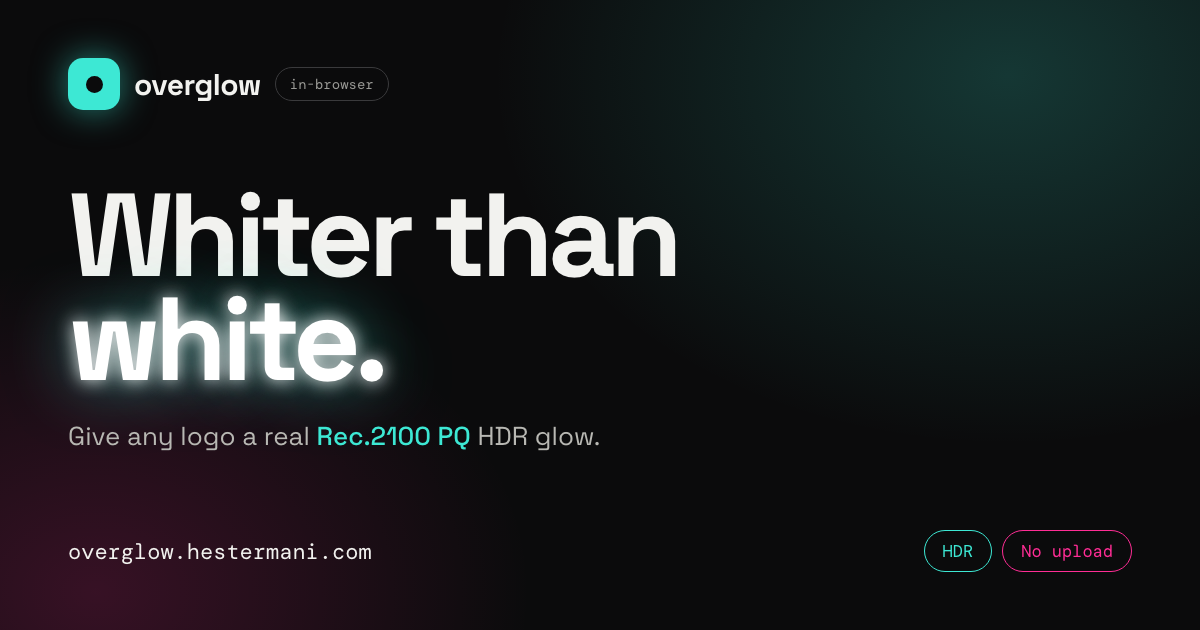
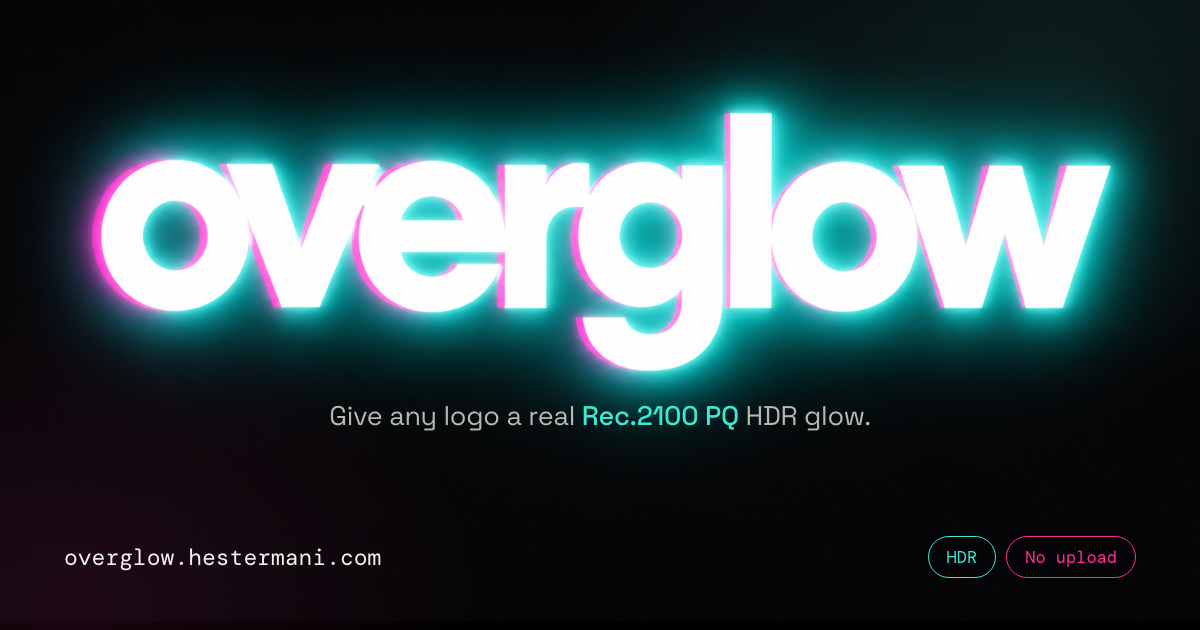
Show the count in the footer, and rebuild the social card
The footer pointed at raw JSON. It now renders the number, read from a 4-key
edge-cached endpoint rather than the 180-key one, which would have exhausted
the free KV read tier at roughly 555 visits a day. It counts real uploads but
never prints the word "uploaded", which the page denies in several places.

/api/count now only accepts requests a browser made from this page, so a bare
curl loop cannot pump the number.

The social card is rebuilt around the generated wordmark.

diff --git a/tools/og-card.html b/tools/og-card.html
@@ -3,42 +3,37 @@
 <link href="https://fonts.googleapis.com/css2?family=Space+Grotesk:wght@400;500;700&family=DM+Mono:wght@400;500&display=swap" rel="stylesheet">
 <style>
 *{margin:0;padding:0;box-sizing:border-box}
-body{width:1200px;height:630px;overflow:hidden;background:#0B0B0C;
-  font-family:'Space Grotesk',Helvetica,sans-serif;-webkit-font-smoothing:antialiased;position:relative}
+body{width:1200px;height:630px;overflow:hidden;background:#000;position:relative;
+  font-family:'Space Grotesk',Helvetica,sans-serif;-webkit-font-smoothing:antialiased}
+/* faint brand wash behind everything */
 .bg{position:absolute;inset:0;
-  background:radial-gradient(780px 560px at 84% 12%, rgba(61,232,212,.20), transparent 66%),
-             radial-gradient(680px 520px at 8% 94%, rgba(255,45,149,.18), transparent 64%)}
-.inner{position:relative;height:100%;padding:58px 68px;display:flex;flex-direction:column;justify-content:space-between}
-.brand{display:flex;align-items:center;gap:14px}
-.mark{width:52px;height:52px;border-radius:15px;background:#3DE8D4;display:flex;align-items:center;justify-content:center;
-  box-shadow:0 0 34px rgba(61,232,212,.55)}
-.mark i{width:17px;height:17px;border-radius:50%;background:#0B0B0C;display:block}
-.word{color:#F2F2EF;font-weight:700;font-size:30px;letter-spacing:-.02em}
-.badge{border:1px solid #3A3A3C;color:#9A9A96;font-family:'DM Mono',monospace;font-size:14px;padding:7px 14px;border-radius:999px}
-h1{color:#F2F2EF;font-weight:700;font-size:118px;line-height:.88;letter-spacing:-.05em}
-h1 .glow{color:#fff;text-shadow:0 0 18px rgba(255,255,255,.95),0 0 66px rgba(61,232,212,.7)}
-p.sub{margin-top:26px;color:#B8B8B3;font-size:26px;line-height:1.45;max-width:860px}
+  background:radial-gradient(700px 500px at 88% 8%, rgba(61,232,212,.10), transparent 68%),
+             radial-gradient(620px 480px at 6% 96%, rgba(255,45,149,.10), transparent 66%)}
+/* The wordmark is glow-on-black, so `screen` drops its background and keeps the
+   light. That avoids a visible rectangle edge against the card. */
+/* Wider than the card on purpose: the source PNG's background is not pure
+   black, so `screen` leaves a faint lift with hard edges. Bleeding it past the
+   frame puts those edges off-canvas. */
+.mark{position:absolute;left:50%;top:41%;transform:translate(-50%,-50%);
+  width:1290px;mix-blend-mode:screen;display:block}
+.inner{position:relative;height:100%;padding:52px 64px;display:flex;flex-direction:column;justify-content:space-between}
+p.sub{position:absolute;left:0;right:0;top:63%;text-align:center;
+  color:#B8B8B3;font-size:27px;line-height:1.4;letter-spacing:-.01em}
 p.sub strong{color:#3DE8D4;font-weight:500}
-.foot{display:flex;align-items:center;justify-content:space-between}
-.url{color:#F2F2EF;font-family:'DM Mono',monospace;font-size:22px}
+.foot{margin-top:auto;display:flex;align-items:center;justify-content:space-between}
+.url{color:#F2F2EF;font-family:'DM Mono',monospace;font-size:23px}
 .tags{display:flex;gap:10px}
 .tag{font-family:'DM Mono',monospace;font-size:17px;padding:9px 18px;border-radius:999px}
 .t1{border:1px solid #3DE8D4;color:#3DE8D4}
 .t2{border:1px solid #FF2D95;color:#FF2D95}
 </style></head><body>
 <div class="bg"></div>
+<img class="mark" src="wordmark-glow.png" alt="overglow">
+<p class="sub">Give any logo a real <strong>Rec.2100 PQ</strong> HDR glow.</p>
 <div class="inner">
-  <div class="brand">
-    <div class="mark"><i></i></div>
-    <span class="word">overglow</span>
-    <span class="badge">in-browser</span>
-  </div>
-  <div>
-    <h1>Whiter than<br><span class="glow">white.</span></h1>
-    <p class="sub">Give any logo a real <strong>Rec.2100 PQ</strong> HDR glow.</p>
-  </div>
   <div class="foot">
     <div class="url">overglow.hestermani.com</div>
     <div class="tags"><div class="tag t1">HDR</div><div class="tag t2">No upload</div></div>
   </div>
-</div></body></html>
+</div>
+</body></html>

diff --git a/index.html b/index.html
@@ -193,6 +193,7 @@ input[type=range]::-moz-range-thumb { width: 18px; height: 18px; border: none; b
 /* ============ footer ============ */
 footer { text-align: center; font-family: var(--mono); font-size: 12px; line-height: 1.8; color: var(--ink-faint); }
 footer a { color: var(--ink-dim); }
+#glowCount b { color: var(--aqua); font-weight: 500; }
 
 @media (max-width: 900px) {
   .notes { grid-template-columns: 1fr; }
@@ -333,7 +334,11 @@ footer a { color: var(--ink-dim); }
   </div>
 </section>
 
-<footer>Your images never leave this browser — no uploads, no accounts, no cookies.<br>Anonymous counts only: <a href="/api/stats">how many times it has been used</a>.</footer>
+<footer>
+  <div>Your image never leaves this browser — no uploads, no accounts, no cookies.</div>
+  <div id="glowLine" hidden><span id="glowCount"></span></div>
+  <div><a href="https://github.com/billums123/overglow" target="_blank" rel="noopener noreferrer">source on GitHub</a></div>
+</footer>
 
 </div>
 <script>
@@ -1365,6 +1370,41 @@ function drawDemoLogo() {
   return c;
 }
 
+/* ============ footer count ============ */
+/* Fetched once per load, then nudged locally. Without the nudge a visitor who
+   uploads sees the number sit still: the value is 60s edge-cached and KV is
+   eventually consistent, so a re-fetch would usually return the stale figure
+   anyway. Their own upload did count, so showing it immediately is accurate,
+   not optimistic fiction. */
+let glowN = null;
+
+function renderGlow() {
+  if (glowN === null) return;
+  $('glowCount').innerHTML = glowN === 0
+    ? 'no logos overglown yet \u2014 be the first'
+    : '<b>' + glowN.toLocaleString() + '</b> ' + (glowN === 1 ? 'logo' : 'logos') + ' overglown so far';
+  $('glowLine').hidden = false;
+}
+
+async function showGlowCount() {
+  if (location.protocol === 'file:') return;
+  try {
+    const r = await fetch('/api/total');
+    if (!r.ok) return;
+    const { n } = await r.json();
+    if (typeof n !== 'number') return;
+    glowN = n;
+    renderGlow();
+  } catch (e) { /* leave it hidden */ }
+}
+
+/* Called when this visitor's own image lands. */
+function bumpGlowCount() {
+  if (glowN === null) return;   /* never invent a number we could not load */
+  glowN += 1;
+  renderGlow();
+}
+
 /* ============ anonymous counter ============ */
 /* Sends one allowlisted word, nothing else. Never image data, which stays in
    this browser. Silently does nothing when opened as a local file. */
@@ -1387,6 +1427,8 @@ drop.addEventListener('dragover', e => { e.preventDefault(); drop.classList.add(
 drop.addEventListener('dragleave', () => drop.classList.remove('over'));
 drop.addEventListener('drop', e => { e.preventDefault(); drop.classList.remove('over'); if (e.dataTransfer.files[0]) load(e.dataTransfer.files[0]); });
 fileInput.addEventListener('change', () => { if (fileInput.files[0]) load(fileInput.files[0]); });
+
+showGlowCount();
 
 $('demoTry').addEventListener('click', async e => {
   e.stopPropagation();
@@ -1411,6 +1453,7 @@ function load(file) {
     ctx.drawImage(img, 0, 0, w, h);
     openStudio();
     count('upload');
+    bumpGlowCount();
     URL.revokeObjectURL(img.src);
   };
   img.src = URL.createObjectURL(file);

diff --git a/functions/api/total.js b/functions/api/total.js
@@ -1,0 +1,46 @@
+/**
+ * The single number shown in the page footer.
+ *
+ * Deliberately not /api/stats, which reads 180 keys (3 events x 4 shards x 15
+ * buckets) and is no-store. Putting that on every page load would exhaust the
+ * free KV read tier at roughly 555 visits a day and then break the counter in
+ * public, which is the worst possible failure for a number meant to signal use.
+ *
+ * This reads 4 keys and is cached at the edge, so cost stays flat no matter how
+ * much traffic arrives.
+ *
+ * Counts `upload`: someone brought a real image. Excludes demo button presses,
+ * and does not require finishing the download. Note the page must never render
+ * the word "uploaded" — nothing is uploaded, and the copy says so repeatedly.
+ */
+const SHARDS = 4;
+const EDGE_TTL = 60;
+
+export async function onRequestGet({ request, env, waitUntil }) {
+  const cache = caches.default;
+  const key = new Request(new URL(request.url).toString(), { method: 'GET' });
+
+  const hit = await cache.match(key);
+  if (hit) return hit;
+
+  let n = null;
+  if (env.COUNTERS) {
+    try {
+      const parts = await Promise.all(
+        Array.from({ length: SHARDS }, (_, s) => env.COUNTERS.get(`t:upload:${s}`))
+      );
+      n = parts.reduce((sum, v) => sum + (parseInt(v || '0', 10) || 0), 0);
+    } catch {
+      n = null;   /* the page hides the counter rather than showing something wrong */
+    }
+  }
+
+  const res = new Response(JSON.stringify({ n }), {
+    headers: {
+      'content-type': 'application/json; charset=utf-8',
+      'cache-control': `public, max-age=${EDGE_TTL}`,
+    },
+  });
+  if (n !== null) waitUntil(cache.put(key, res.clone()));
+  return res;
+}

diff --git a/functions/api/count.js b/functions/api/count.js
@@ -12,10 +12,35 @@ const EVENTS = new Set(['upload', 'demo', 'export']);
 const SHARDS = 4;
 const DAY_TTL = 60 * 60 * 24 * 400; // day buckets self-expire after ~13 months
 
+/* Only count requests that a browser actually made from this page.
+
+   Sec-Fetch-Site is set by the browser and cannot be overridden from page
+   JavaScript, and Origin is sent on any cross-site POST. Requiring one of them
+   to say "same origin" rejects a bare `curl .../api/count` outright, which is
+   what casual counter-pumping looks like.
+
+   This raises the bar rather than being a wall: both headers can be forged with
+   curl -H. A real ceiling needs a WAF rate-limiting rule on this path, which is
+   zone-level configuration and cannot be set from inside the Function. Nothing
+   here is stored, so it costs no privacy to apply. */
+function sameOrigin(request) {
+  const site = request.headers.get('sec-fetch-site');
+  if (site) return site === 'same-origin';
+
+  const origin = request.headers.get('origin');
+  if (!origin) return false;              /* neither header: not a browser on this page */
+  try {
+    return new URL(origin).host === new URL(request.url).host;
+  } catch {
+    return false;
+  }
+}
+
 export async function onRequestPost({ request, env }) {
   // Always 204 — a counter must never surface errors to the page.
   const ok = new Response(null, { status: 204 });
   if (!env.COUNTERS) return ok;
+  if (!sameOrigin(request)) return ok;
 
   let event;
   try {
